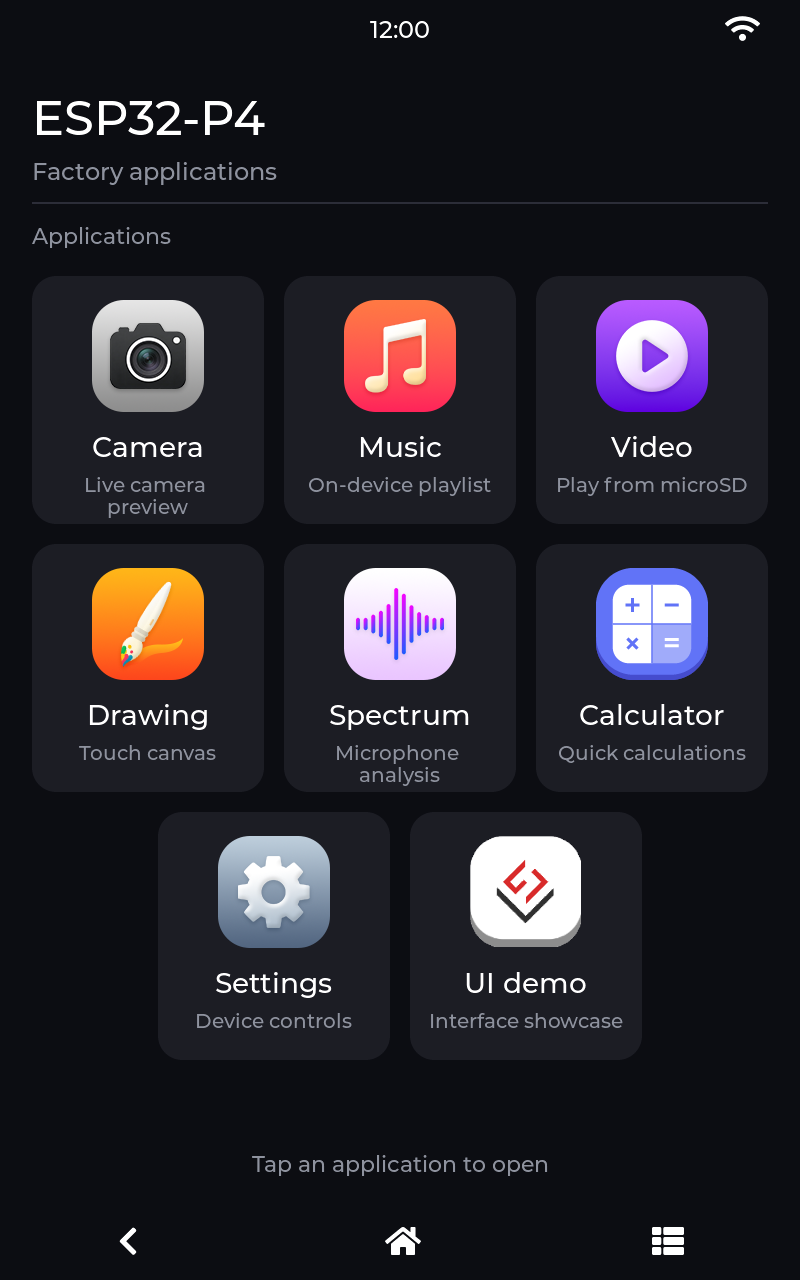
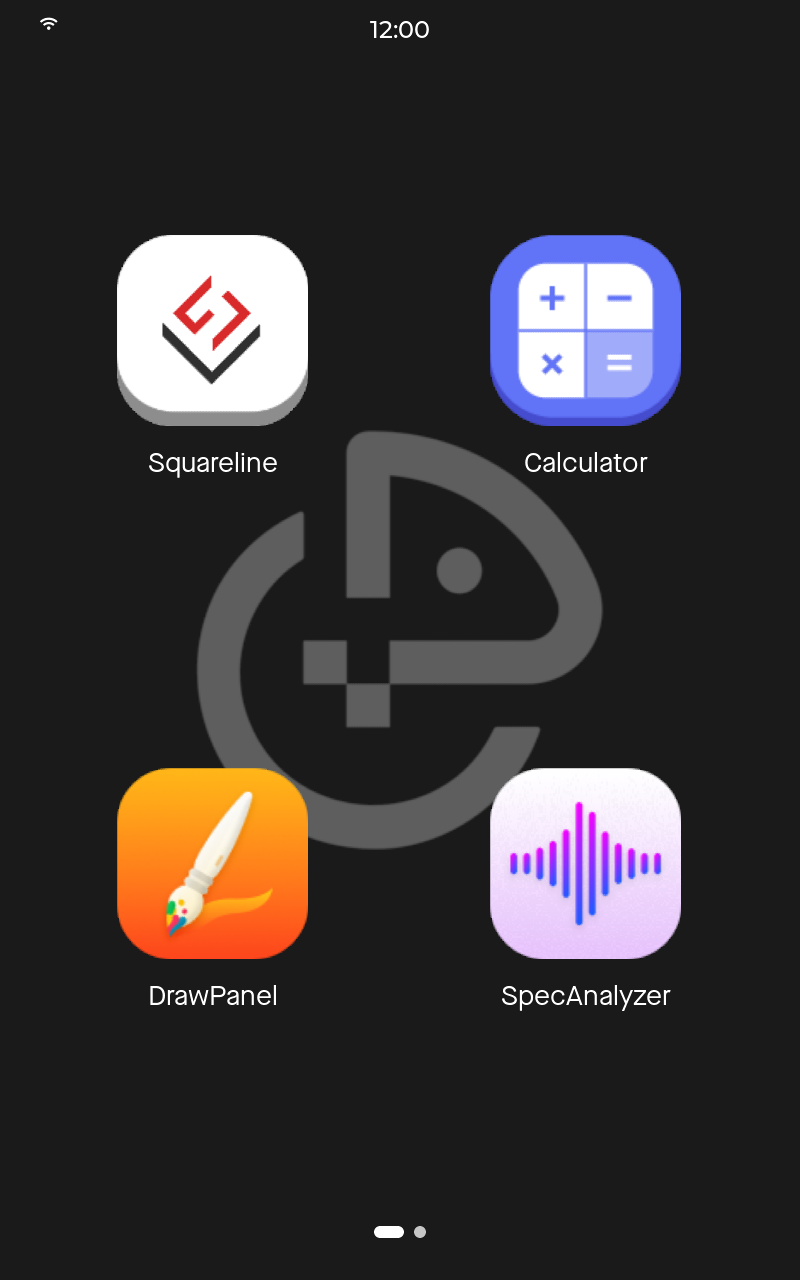
docs(factory): show the reference launcher on the portrait display

diff --git a/examples/factory/README.md b/examples/factory/README.md
@@ -4,7 +4,7 @@
 
 ## What It Does
 
-Run a dark-card interface for the 800 x 1280 rectangular portrait display, with calculator, drawing, spectrum, music, camera, video and settings apps. The music view shows the bundled audio file names and provides playback, pause, track selection and a playlist.
+Run the reference Brookesia icon launcher on the 800 x 1280 rectangular portrait display, with calculator, drawing, spectrum, music, camera, video and settings apps. The music view shows the bundled audio file names and provides playback, pause, track selection and a playlist.
 
 ## Hardware Required
 
@@ -22,7 +22,7 @@ idf.py build flash monitor
 
 ## Expected Result
 
-The launcher uses a three-column app grid, with blue settings controls and consistent back navigation; camera and video retain their full-screen views. The image below is a software-rendered UI preview.
+The launcher shows four icons per page over the Brookesia wallpaper, with horizontal paging and press animations; settings uses blue controls, while camera and video retain their full-screen views. The images below are software-rendered UI previews.
 
 | Launcher | Settings |
 | --- | --- |

diff --git a/examples/factory/README_ZH.md b/examples/factory/README_ZH.md
@@ -4,7 +4,7 @@
 
 ## 功能
 
-运行面向 800×1280 直角竖屏的深色卡片界面，提供计算器、画板、频谱、音乐、摄像头、视频和设置应用。音乐页直接显示内置音频的文件名，并提供播放、暂停、切歌和曲目列表。
+在 800×1280 直角竖屏上运行参考工程的 Brookesia 图标桌面，提供计算器、画板、频谱、音乐、摄像头、视频和设置应用。音乐页直接显示内置音频的文件名，并提供播放、暂停、切歌和曲目列表。
 
 ## 硬件需求
 
@@ -22,7 +22,7 @@ idf.py build flash monitor
 
 ## 预期现象
 
-主页按三列展示应用，设置页使用蓝色控件和统一的返回导航；摄像头和视频保持全屏预览。下图为软件渲染的界面预览。
+桌面在 Brookesia 壁纸上每页显示四个图标，支持横向翻页和按压动画；设置页使用蓝色控件，摄像头和视频保持全屏预览。下图为软件渲染的界面预览。
 
 | 启动器 | 设置 |
 | --- | --- |
